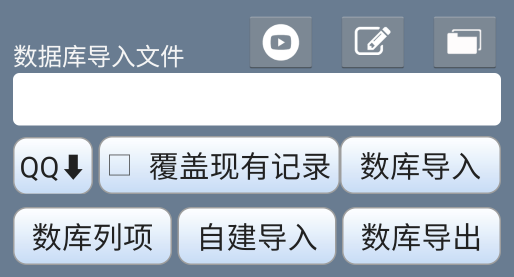
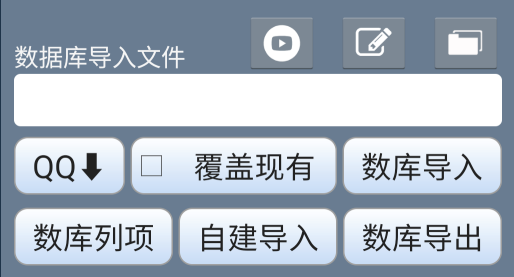
minor UI update

diff --git a/hymnchtv/faq.html b/hymnchtv/faq.html
@@ -113,7 +113,7 @@ ul li {
        <li><a href=#hymnch_0070>[20220105] User defined media configuration</a></li>
      </ul>
      <ul>
-       <li><a href=#hymnch_0080>[20210801] User defined media database configuration</a></li>
+       <li><a href=#hymnch_0080>[20220106] User defined media database configuration</a></li>
      </ul>
 
 
@@ -474,7 +474,7 @@ ul li {
   </div>
 
    <span id='hymnch_0080'></span>
-   <div class='blueText'>[[20210801] User defined media database configuration <a href=#content>{ Content }</a></div>
+   <div class='blueText'>[[20220106] User defined media database configuration <a href=#content>{ Content }</a></div>
    <div class='innerText'>Hymnchtv provides other tools to ease user in managing the user defined media record/database.
      All the user defined media configureations are stored in the hymnchtv internal database as media records. The
      included functions provided allow one user to share his media contents setup in the database with another user by
@@ -498,7 +498,7 @@ ul li {
          media record in the database. Click the <b>退出</b> button to close the media record listing window.</li>
        <li><b>数库导入</b>: Import all the media record contents as defined in the exported txt file into the hymnchtv database.
          Each media record will be saved in the respective database per the defined HymnType of the media record.</li>
-       <li><b>覆盖现有记录</b>: Check this option if you want hymnchtv to overwrite any existing media record in the
+       <li><b>覆盖现有</b>: Check this option if you want hymnchtv to overwrite any existing media record in the
          database during the database import process.</li>
          <li><b>QQ&#x2B07;</b>: Click this button to create all the QQ hymn info links, the process may take some time
          pending on the network condition; the links are used in the QQ-info search in
@@ -538,7 +538,7 @@ ul li {
        <li>After the <b>自建导出</b> operation, the actual created filename/path is shown in the <b>数据库导入文件</b> field
          and a RichText Editor is launched with the file content inserted for user verification and correction. After
          the modifications, click the <b>确认</b> to save the changes</li>
-       <li><b>覆盖现有记录</b> Check this option if you want hymnchtv to overwrite any existing media record in the
+       <li><b>覆盖现有</b> Check this option if you want hymnchtv to overwrite any existing media record in the
          database during the database import process.</li>
        <li>Click the <b>数据库导入</b> button to import the file content into the hymnchtv database.</li>
        <li>Click the <b>数库列项</b> button to check all the media records that have been imported into the hymnchtv
@@ -548,7 +548,7 @@ ul li {
         <br />* click on the error item in the list and use the media record UI to make changes before saving the
         updated record; or
         <br />* return to the exported file using the embedded RichText Editor to do the correction. Then perform the
-        <b>数据库导入</b> process with <b>覆盖现有记录</b> option checked.</li>
+        <b>数据库导入</b> process with <b>覆盖现有</b> option checked.</li>
      </ul>
      <b>Export file media record string format:</b>
      <br />Each media record string is consisted of the following parameters separated by commas:

diff --git a/hymnchtv/index.html b/hymnchtv/index.html
@@ -247,7 +247,7 @@
 					<h2>关于书拉密女诗歌应用程序</h2>
 					<div class="media">
             <image src="./img/13.hymnchtv_about.png"/>
-						<p>关于书拉密女诗歌程序界面。选择历史记录以查看应用程序发布记录日志。如果遇到应用程序问题，可以提交错误报告。</p>
+						<p>关于书拉密女诗歌程序界面。选择历史记录以查看应用程序发布记录日志。如果遇到应用程序问题，可以提交错误报告。更新选项仅在调试版本中可用。</p>
 					</div>
 				</li>
 
